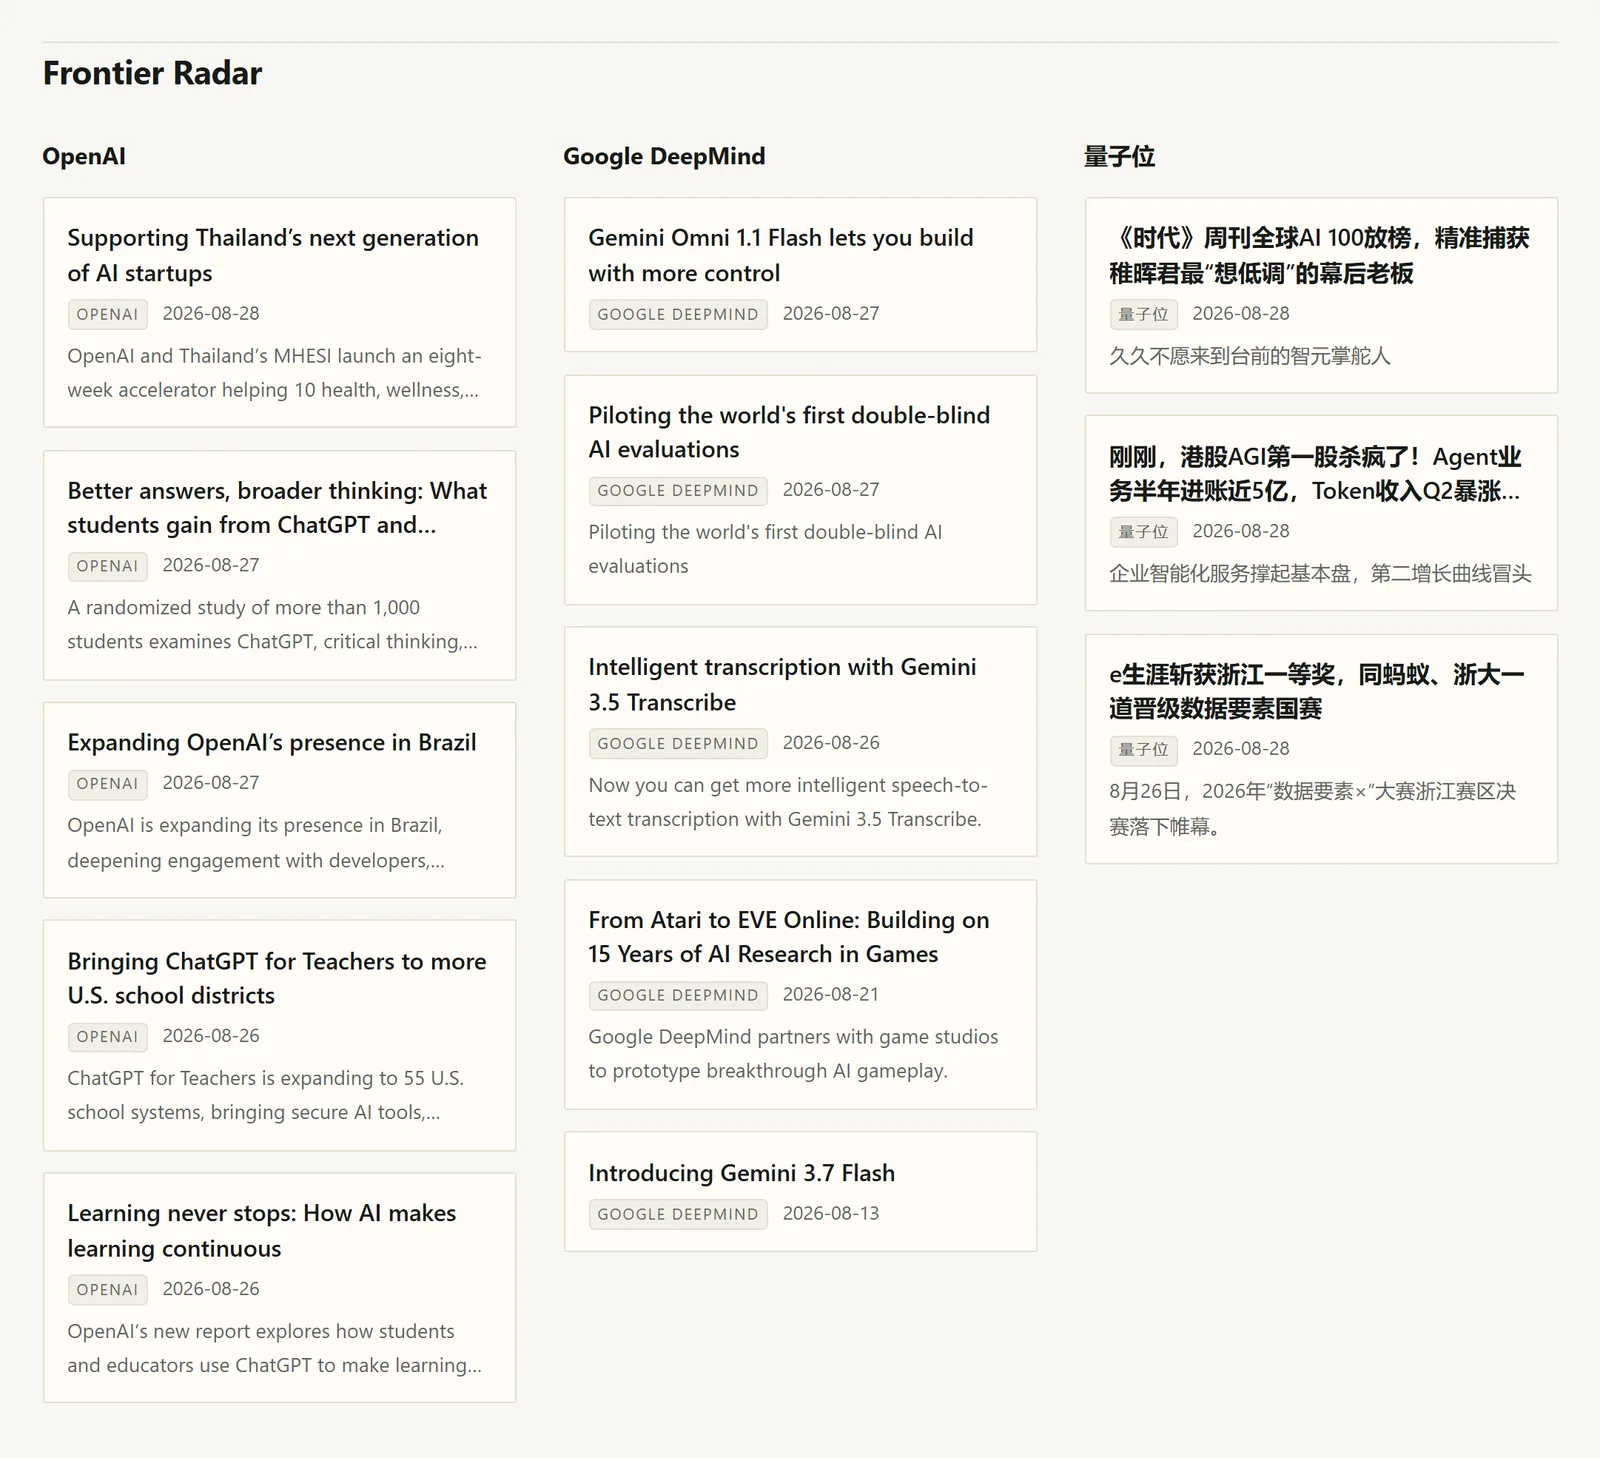
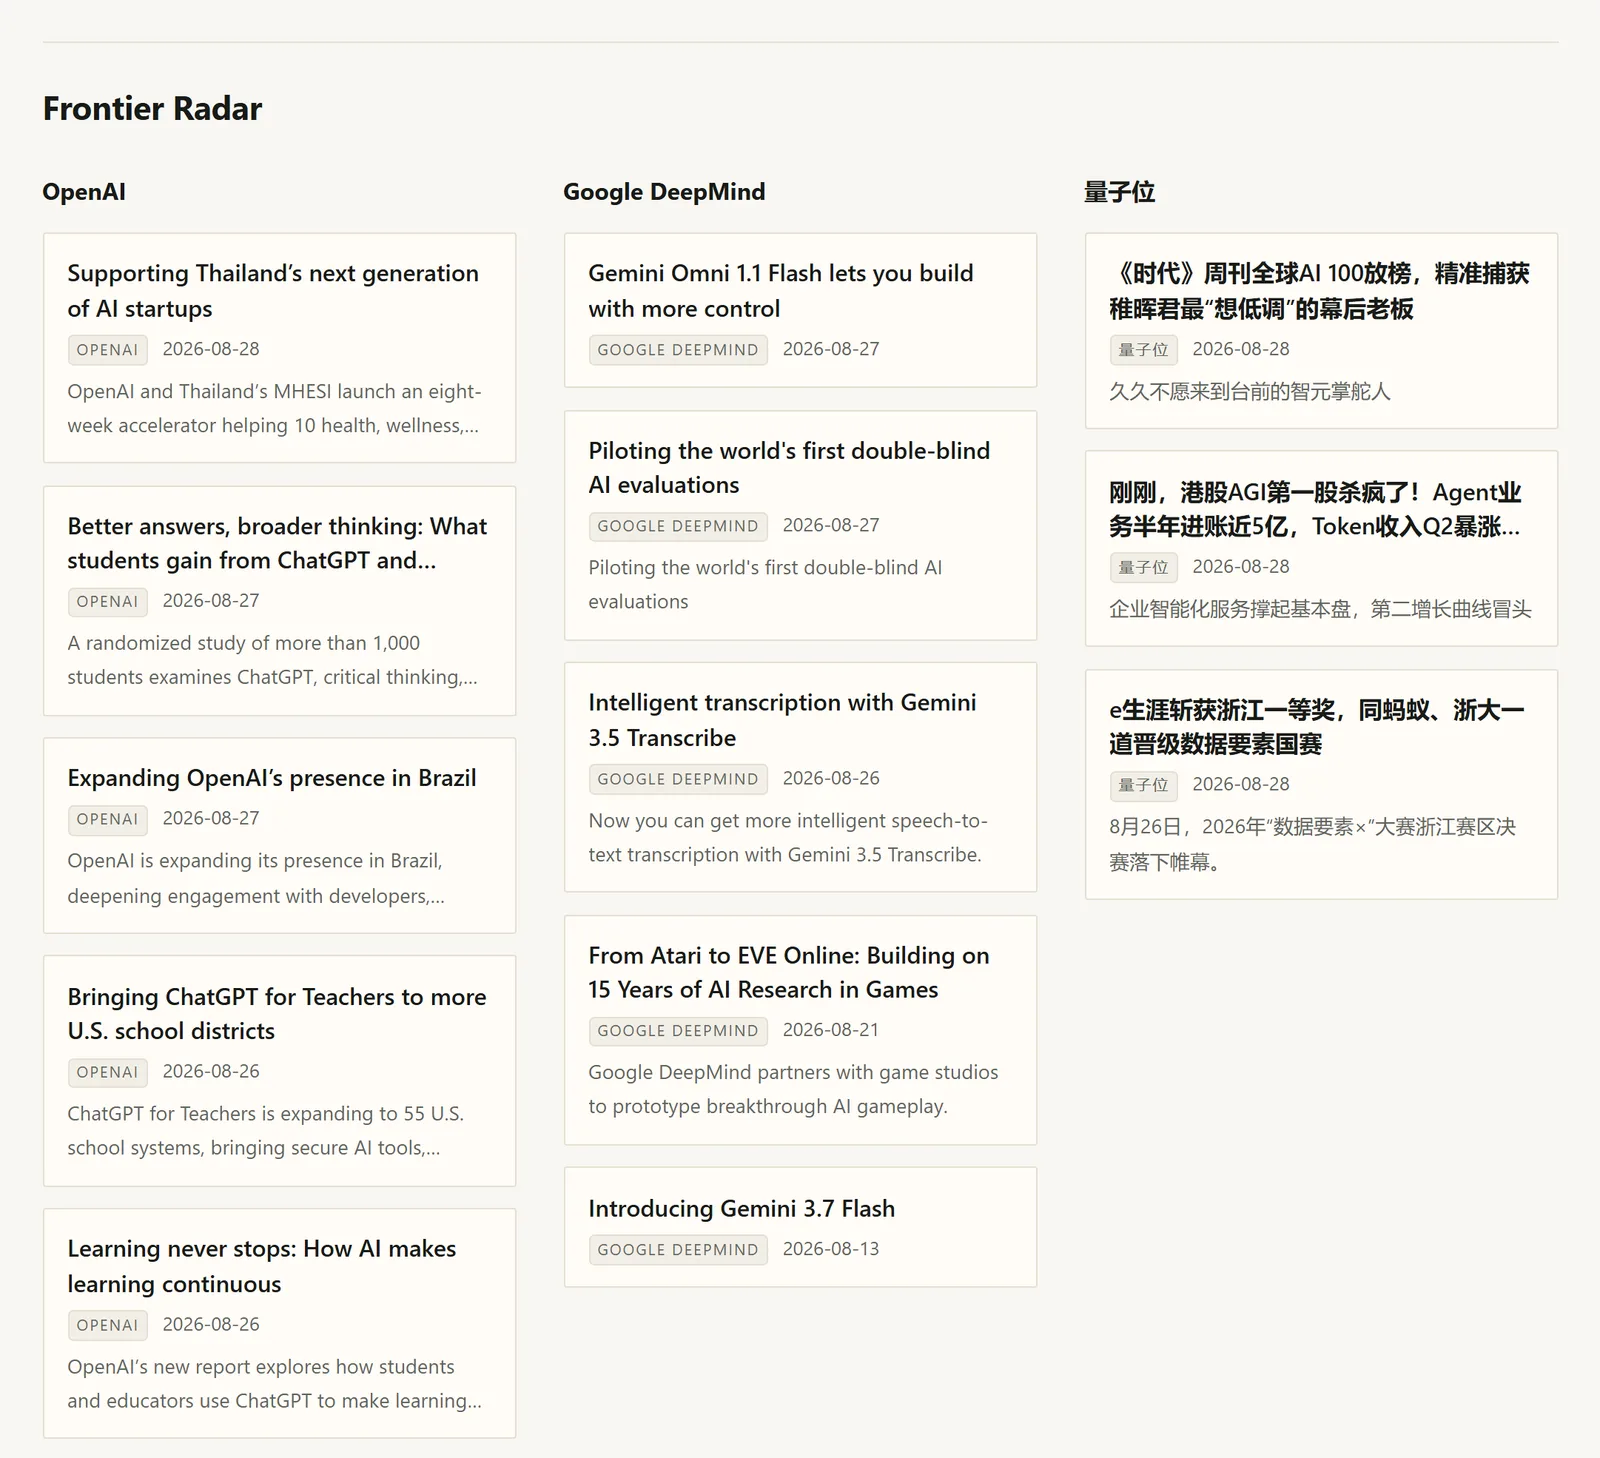
fix(styles): add proper top spacing for home blocks above RSS section and update component screenshots

diff --git a/src/styles/global.css b/src/styles/global.css
@@ -516,16 +516,13 @@ html[data-theme='dark'] .theme-toggle .icon-dark {
   }
 }
 
-/* 主页区块：细分割线；相邻区块由前一块提供底部间距，避免上下 padding 叠加 */
+/* 主页区块：细分割线；上下 padding 各自保持留白 */
 .home-block {
-  padding: 3rem 0;
+  padding: 1.5rem 0 3rem;
   border-top: 1px solid var(--border);
 }
 .home-block:first-child {
   border-top: 0;
-  padding-top: 0;
-}
-.home-block + .home-block {
   padding-top: 0;
 }
 .home-block:has(+ .component-demo-title) {
@@ -547,6 +544,7 @@ html[data-theme='dark'] .theme-toggle .icon-dark {
 }
 .block-editorial:has(> .editorial-divider) + .home-block {
   border-top: 0;
+  padding-top: 0;
 }
 
 /* 当编辑风区块（::editorial）嵌入到 markdown 正文中时，重置主页分段 padding 与 border，与正文流式间距融合 */
@@ -2042,14 +2040,84 @@ html.js .timeline-item.reveal.revealed {
     grid-template-columns: 1fr !important;
   }
 }
-/* bilibili/youtube 播放器：16:9 响应式容器，iframe 直接加载（loading=lazy） */
+/* bilibili/youtube 播放器：16:9 响应式容器，高性能门面模式（Facade）+ 点击激活 */
 .markdown-body .embed-player {
+  position: relative;
   aspect-ratio: 16 / 9;
   background: var(--bg-subtle);
   border: 1px solid var(--border);
   border-radius: var(--radius-md);
   margin: 1.5em 0;
   overflow: hidden;
+  display: flex;
+  align-items: center;
+  justify-content: center;
+  cursor: pointer;
+  contain: layout paint;
+  user-select: none;
+  transition: border-color 0.2s ease, box-shadow 0.2s ease;
+}
+.markdown-body .embed-player:hover {
+  border-color: var(--accent);
+  box-shadow: var(--shadow-soft);
+}
+.markdown-body .embed-player.is-active {
+  cursor: default;
+  border-color: var(--border);
+  box-shadow: none;
+}
+.markdown-body .embed-poster {
+  position: absolute;
+  inset: 0;
+  width: 100%;
+  height: 100%;
+  object-fit: cover;
+  display: block;
+  transition: transform 0.3s ease, filter 0.3s ease;
+}
+.markdown-body .embed-player:hover .embed-poster {
+  transform: scale(1.02);
+  filter: brightness(0.92);
+}
+.markdown-body .embed-play-btn {
+  position: relative;
+  z-index: 2;
+  display: inline-flex;
+  align-items: center;
+  gap: 0.5rem;
+  padding: 0.6rem 1.1rem 0.6rem 0.9rem;
+  background: color-mix(in srgb, var(--card) 90%, transparent);
+  backdrop-filter: blur(8px);
+  -webkit-backdrop-filter: blur(8px);
+  border: 1px solid var(--border);
+  border-radius: 9999px;
+  color: var(--text);
+  font-weight: 500;
+  font-size: 0.9rem;
+  cursor: pointer;
+  box-shadow: 0 4px 16px rgba(0, 0, 0, 0.14);
+  transition: transform 0.2s cubic-bezier(0.34, 1.56, 0.64, 1), background-color 0.2s ease, border-color 0.2s ease, color 0.2s ease;
+}
+.markdown-body .embed-player:hover .embed-play-btn {
+  transform: scale(1.08);
+  border-color: var(--accent);
+  color: var(--accent);
+  background: var(--card);
+}
+.markdown-body .embed-play-icon {
+  width: 18px;
+  height: 18px;
+  fill: currentColor;
+  flex: none;
+}
+.markdown-body .embed-badge {
+  font-size: 0.78rem;
+  padding: 0.1rem 0.45rem;
+  border-radius: 4px;
+  background: var(--bg-subtle);
+  color: var(--text-muted);
+  font-family: var(--font-mono);
+  letter-spacing: 0.02em;
 }
 .embed-player iframe {
   width: 100%;
@@ -2058,12 +2126,13 @@ html.js .timeline-item.reveal.revealed {
   display: block;
 }
 /* :::video/:::audio 原生媒体块（修正 C）：裸标签默认是内联元素（300px 宽、
-   贴文本基线、无块间距），与 figure/embed-player 对齐为杂志全宽块 */
+   贴文本基线、无块间距），与 figure/embed-player 对齐为杂志全宽块，增加渲染隔离 */
 .markdown-body video,
 .markdown-body audio {
   display: block;
   width: 100%;
   margin: 1.5em 0;
+  contain: layout paint;
 }
 .markdown-body video {
   background: var(--bg-subtle);
